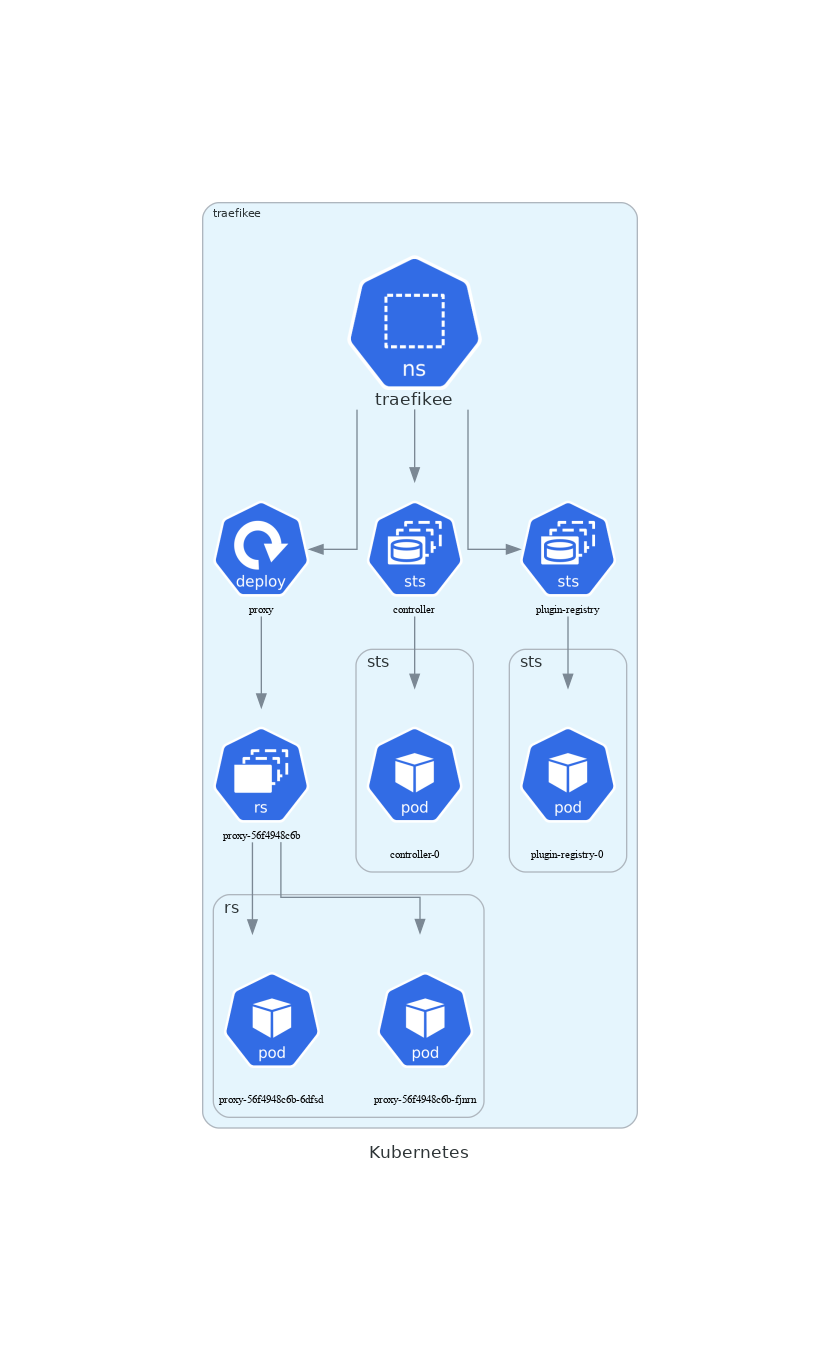
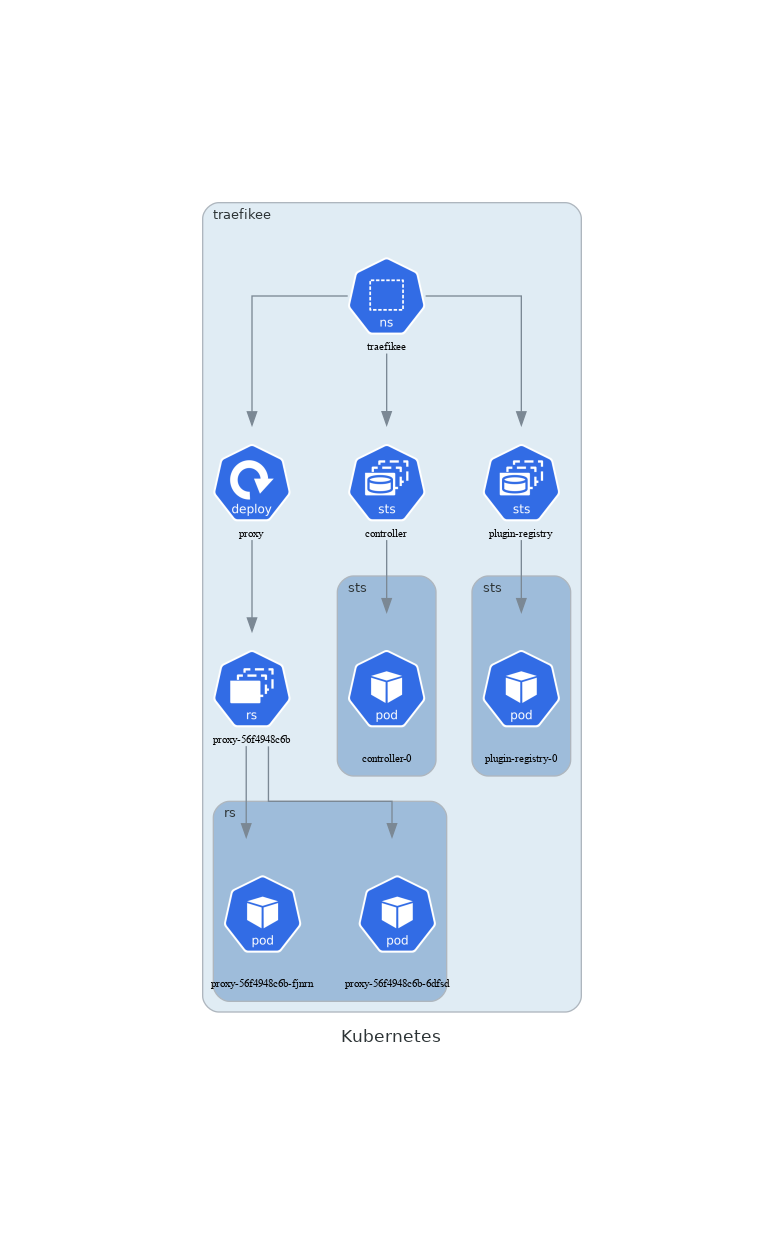
feat: set output dir/filename, kubeconfig path, namespace, simplify command, fix daemonSets, change colors, improve README

Changed region(s): [[0.2143, 0.1222, 0.7653, 0.8553]]

diff --git a/pkg/diagram/objects.go b/pkg/diagram/objects.go
@@ -10,7 +10,6 @@ import (
 )
 
 const (
-	nodeFontSize   = 8
 	kindDeployment = "deployment"
 )
 
@@ -22,8 +21,8 @@ func (d *Diagram) GenerateDeployments(namespace string, o *appsv1.DeploymentList
 
 		d.deployments[v.Name] = k8s.Compute.Deploy(
 			diagram.NodeLabel(v.Name),
-			diagram.Width(1),
-			diagram.Height(1),
+			diagram.Width(0.8),
+			diagram.Height(0.8),
 			diagram.SetFontOptions(diagram.Font{Size: nodeFontSize}),
 		)
 		d.namespaceGroups[namespace].Add(d.deployments[v.Name]).Connect(d.namespaces[namespace], d.deployments[v.Name])
@@ -38,20 +37,18 @@ func (d *Diagram) GenerateDaemonSets(namespace string, o *appsv1.DaemonSetList) 
 
 		d.daemonSets[v.Name] = k8s.Compute.Ds(
 			diagram.NodeLabel(v.Name),
-			diagram.Width(1),
-			diagram.Height(1),
+			diagram.Width(0.8),
+			diagram.Height(0.8),
 			diagram.SetFontOptions(diagram.Font{Size: nodeFontSize}),
 		)
-		d.daemonSetGroups[v.Name] = diagram.NewGroup(v.Name).Label("ds")
-		d.namespaceGroups[namespace].Add(d.daemonSets[v.Name]).Group(d.daemonSetGroups[v.Name])
-
-		for _, o := range v.GetOwnerReferences() {
-			if strings.ToLower(o.Kind) != kindDeployment {
-				continue
+		d.daemonSetGroups[v.Name] = diagram.NewGroup(v.Name, func(o *diagram.GroupOptions) {
+			o.Font = diagram.Font{
+				Size: groupFontSize,
 			}
-
-			d.namespaceGroups[namespace].Connect(d.deployments[o.Name], d.daemonSets[v.Name])
-		}
+			o.BackgroundColor = "#9EBCDA"
+		}).Label("ds")
+		d.namespaceGroups[namespace].Group(d.daemonSetGroups[v.Name])
+		d.namespaceGroups[namespace].Add(d.daemonSets[v.Name]).Connect(d.namespaces[namespace], d.daemonSets[v.Name])
 	}
 }
 
@@ -63,11 +60,16 @@ func (d *Diagram) GenerateReplicaSets(namespace string, o *appsv1.ReplicaSetList
 
 		d.replicaSets[v.Name] = k8s.Compute.Rs(
 			diagram.NodeLabel(v.Name),
-			diagram.Width(1),
-			diagram.Height(1),
+			diagram.Width(0.8),
+			diagram.Height(0.8),
 			diagram.SetFontOptions(diagram.Font{Size: nodeFontSize}),
 		)
-		d.replicaSetGroups[v.Name] = diagram.NewGroup(v.Name).Label("rs")
+		d.replicaSetGroups[v.Name] = diagram.NewGroup(v.Name, func(o *diagram.GroupOptions) {
+			o.Font = diagram.Font{
+				Size: groupFontSize,
+			}
+			o.BackgroundColor = "#9EBCDA"
+		}).Label("rs")
 		d.namespaceGroups[namespace].Add(d.replicaSets[v.Name]).Group(d.replicaSetGroups[v.Name])
 
 		for _, o := range v.GetOwnerReferences() {
@@ -88,11 +90,16 @@ func (d *Diagram) GenerateStatefulSets(namespace string, o *appsv1.StatefulSetLi
 
 		d.statefulSets[v.Name] = k8s.Compute.Sts(
 			diagram.NodeLabel(v.Name),
-			diagram.Width(1),
-			diagram.Height(1),
+			diagram.Width(0.8),
+			diagram.Height(0.8),
 			diagram.SetFontOptions(diagram.Font{Size: nodeFontSize}),
 		)
-		d.statefulSetGroups[v.Name] = diagram.NewGroup(v.Name).Label("sts")
+		d.statefulSetGroups[v.Name] = diagram.NewGroup(v.Name, func(o *diagram.GroupOptions) {
+			o.Font = diagram.Font{
+				Size: groupFontSize,
+			}
+			o.BackgroundColor = "#9EBCDA"
+		}).Label("sts")
 		d.namespaceGroups[namespace].Group(d.statefulSetGroups[v.Name])
 		d.namespaceGroups[namespace].Add(d.statefulSets[v.Name]).Connect(d.namespaces[namespace], d.statefulSets[v.Name])
 	}
@@ -106,8 +113,8 @@ func (d *Diagram) GeneratePods(namespace string, o *corev1.PodList) {
 
 		pod := k8s.Compute.Pod(
 			diagram.NodeLabel(v.Name),
-			diagram.Width(1),
-			diagram.Height(1),
+			diagram.Width(0.8),
+			diagram.Height(0.8),
 			diagram.SetFontOptions(diagram.Font{Size: nodeFontSize}),
 		)
 

diff --git a/main.go b/main.go
@@ -10,31 +10,45 @@ import (
 
 func main() {
 	app := &cli.App{
-		Name:  "k8s-diagrams CLI",
-		Usage: "Run k8s-diagrams",
-		Commands: []*cli.Command{
-			diagramCommand(),
-		},
-	}
-
-	if err := app.Run(os.Args); err != nil {
-		log.Fatal().Err(err).Msg("Error while executing command")
-	}
-}
-
-func diagramCommand() *cli.Command {
-	return &cli.Command{
-		Name:        "diagram",
-		Usage:       "Create diagram from Kubernetes API.",
-		Description: "Create diagram from Kubernetes API.",
-		Action:      cmd.Run,
+		Name:  "k8s-diagrams",
+		Usage: "Create diagram from the Kubernetes API.",
 		Flags: []cli.Flag{
 			&cli.StringFlag{
 				Name:    "namespace",
+				Aliases: []string{"n"},
 				Usage:   "The namespace we want to draw.",
 				EnvVars: []string{"KUBECTL_NAMESPACE"},
 				Value:   "default",
 			},
+			&cli.StringFlag{
+				Name:    "kubeconfig",
+				Aliases: []string{"c"},
+				Usage:   "The path to your kube config file.",
+				EnvVars: []string{"KUBECONFIG"},
+			},
+			&cli.StringFlag{
+				Name:    "outputFilename",
+				Aliases: []string{"o"},
+				Usage:   "The output filename.",
+				Value:   "k8s",
+			},
+			&cli.StringFlag{
+				Name:    "outputDirectory",
+				Aliases: []string{"d"},
+				Usage:   "The output directory.",
+				Value:   "diagrams",
+			},
+			&cli.StringFlag{
+				Name:    "label",
+				Aliases: []string{"l"},
+				Usage:   "The diagram label.",
+				Value:   "Kubernetes",
+			},
 		},
+		Action: cmd.Run,
+	}
+
+	if err := app.Run(os.Args); err != nil {
+		log.Fatal().Err(err).Msg("Error while executing command")
 	}
 }

diff --git a/pkg/diagram/diagram.go b/pkg/diagram/diagram.go
@@ -9,7 +9,8 @@ import (
 )
 
 const (
-	NSFontSize = 8
+	nodeFontSize  = 8
+	groupFontSize = 10
 )
 
 type Diagram struct {
@@ -32,6 +33,9 @@ func NewDiagram(outputDir, filename, label string) (*Diagram, error) {
 		diagram.Filename(filename),
 		diagram.Label(label),
 		diagram.Direction("TB"),
+		func(options *diagram.Options) {
+			options.Name = outputDir
+		},
 	)
 	if err != nil {
 		return nil, fmt.Errorf("creating diagram: %w", err)
@@ -59,13 +63,18 @@ func (d *Diagram) GenerateDiagram(namespace string, o *discovery.Objects) {
 			continue
 		}
 
-		d.namespaces[ns.Name] = k8s.Group.Ns(diagram.NodeLabel(ns.Name))
+		d.namespaces[ns.Name] = k8s.Group.Ns(
+			diagram.NodeLabel(ns.Name),
+			diagram.Width(0.8),
+			diagram.Height(0.8),
+			diagram.SetFontOptions(diagram.Font{Size: nodeFontSize}),
+		)
+
 		d.namespaceGroups[ns.Name] = diagram.NewGroup(ns.Name, func(o *diagram.GroupOptions) {
 			o.Font = diagram.Font{
-				Name:  "Sans-Serif",
-				Size:  NSFontSize,
-				Color: "#2D3436",
+				Size: groupFontSize,
 			}
+			o.BackgroundColor = "#E0ECF4"
 		}).Label(ns.Name)
 		d.namespaceGroups[ns.Name].Add(d.namespaces[ns.Name])
 		d.diag.Group(d.namespaceGroups[ns.Name])

diff --git a/cmd/cmd.go b/cmd/cmd.go
@@ -38,7 +38,7 @@ func Run(cliContext *cli.Context) error {
 		return fmt.Errorf("can't read kubeconfig: %w", err)
 	}
 
-	ns := "default"
+	ns := cliContext.String("namespace")
 
 	config, err := clientcmd.BuildConfigFromFlags("", kc)
 	if err != nil {
@@ -57,7 +57,11 @@ func Run(cliContext *cli.Context) error {
 		log.Fatal(err)
 	}
 
-	d, err := diagram.NewDiagram("go-diagrams", "k8s", "Kubernetes")
+	d, err := diagram.NewDiagram(
+		cliContext.String("outputDirectory"),
+		cliContext.String("outputFilename"),
+		cliContext.String("label"),
+	)
 	if err != nil {
 		log.Fatal(err)
 	}

diff --git a/README.md b/README.md
@@ -8,8 +8,31 @@ $ make build
 
 ## Usage
 ```sh
-$ make render
+$ ./k8s-diagrams --help                                                                                           ✔ 
+NAME:
+   k8s-diagrams - Create diagram from the Kubernetes API.
+
+USAGE:
+   k8s-diagrams [global options] command [command options] [arguments...]
+
+COMMANDS:
+   help, h  Shows a list of commands or help for one command
+
+GLOBAL OPTIONS:
+   --namespace value, -n value        The namespace we want to draw. (default: "default") [$KUBECTL_NAMESPACE]
+   --kubeconfig value, -c value       The path to your kube config file. [$KUBECONFIG]
+   --outputFilename value, -o value   The output filename. (default: "k8s")
+   --outputDirectory value, -d value  The output directory. (default: "diagrams")
+   --label value, -l value            The diagram label. (default: "Kubernetes")
+   --help, -h                         show help (default: false)
 ```
 
-## Example
+## Usage example
+```sh
+$ ./k8s-diagrams -n mynamespace -d diagrams -o k8s
+$ cd diagrams
+$ dot -Tpng k8s.dot > k8s.png
+```
+
+## Render example
 ![Diagram](diagram.png)

diff --git a/TODO.md b/TODO.md
@@ -1,14 +1,7 @@
 # TODO list
 
-- [ ] Manage kubeconfig path
-- [ ] Manage namespace argument
-- [ ] Manage output directory
-- [ ] Execute dot directly in the go code
 - [ ] Support all namespaces (export multiple diagrams?)
 - [ ] Add support for more kubernetes objects
 - [ ] Add support for known CRDs
-- [ ] Remove the need for the "diagram" command
 - [ ] Add tests
-- [ ] Check daemonsets
 - [ ] Improve fonts, size of pictures for each object, different color for "sets"?
-- [ ] Add usage in README.md
